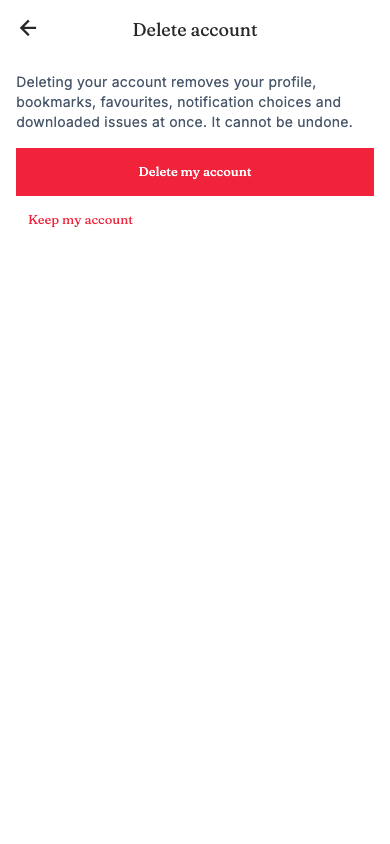
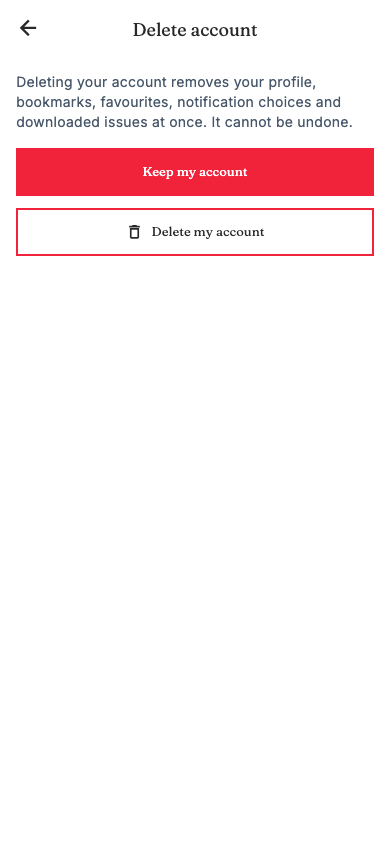
docs(design): make keeping the account the filled button on SCR-A-08 (MOD16-P1-T03)
After Yuvraj Gaykhe's review of #67: deleting is an outlined button in the
error colour with a delete icon, and the record says the images are 1x.

diff --git a/app/test/design/account_frames.dart b/app/test/design/account_frames.dart
@@ -262,6 +262,37 @@ class _Primary extends StatelessWidget {
   }
 }
 
+/// The style of an irreversible action: an outline in the error colour, a
+/// delete icon, and the label in the heading colour, which meets the
+/// contrast baseline where red text does not (DESIGN_TOKENS.md section 5).
+class _Destructive extends StatelessWidget {
+  const _Destructive(this.label, {this.busy = false});
+
+  final String label;
+  final bool busy;
+
+  @override
+  Widget build(BuildContext context) {
+    return OutlinedButton.icon(
+      onPressed: busy ? null : () {},
+      style: OutlinedButton.styleFrom(
+        foregroundColor: MfwColours.heading,
+        side: const BorderSide(color: MfwColours.error, width: 2),
+      ),
+      icon: busy
+          ? const SizedBox.square(
+              dimension: 20,
+              child: CircularProgressIndicator(
+                strokeWidth: 2,
+                semanticsLabel: 'Deleting',
+              ),
+            )
+          : const Icon(Icons.delete_outline),
+      label: Text(busy ? 'Deleting' : label),
+    );
+  }
+}
+
 class _Link extends StatelessWidget {
   const _Link(this.label);
 
@@ -642,11 +673,15 @@ class _DeleteAccount extends StatelessWidget {
           ),
           const _Field('Password', obscure: true),
         ],
-        _Primary(
+        // The safe choice is the filled button, and the irreversible one has
+        // its own style: an outline in the error colour with a delete icon
+        // (review of pull request #67).
+        const _Primary('Keep my account'),
+        const _Gap(MfwSpace.md),
+        _Destructive(
           reauth ? 'Confirm and delete' : 'Delete my account',
           busy: busy,
         ),
-        const _Link('Keep my account'),
       ],
     );
   }

diff --git a/app/test/design/account_frames_test.dart b/app/test/design/account_frames_test.dart
@@ -19,7 +19,8 @@ import 'account_frames.dart';
 const bool _drawImages = bool.fromEnvironment('MFW_DESIGN_FRAMES');
 
 Future<void> _pumpFrame(WidgetTester tester, DesignFrame frame) async {
-  // A 390 by 844 point phone at 2x.
+  // A 390 by 844 point phone. The images are written at 1x, 390 by 844
+  // pixels.
   tester.view.physicalSize = const Size(780, 1688);
   tester.view.devicePixelRatio = 2;
   addTearDown(tester.view.reset);

diff --git a/Documentation/design/ACCOUNT_SCREEN_DESIGNS.md b/Documentation/design/ACCOUNT_SCREEN_DESIGNS.md
@@ -17,7 +17,7 @@
 
 | Version | Date | Change |
 |---|---|---|
-| 0.1 | 9 November 2026 | First version: 23 frames of SCR-A-01 to SCR-A-08, SCR-A-20 and SCR-A-21 with their states, drawn on the app's theme and tokens, with the choices made and the open points each frame waits for. |
+| 0.1 | 9 November 2026 | First version: 23 frames of SCR-A-01 to SCR-A-08, SCR-A-20 and SCR-A-21 with their states, drawn on the app's theme and tokens, with the choices made and the open points each frame waits for. Revised on 9 November 2026 after the review of pull request #67: on SCR-A-08 the filled button keeps the account and deleting has its own outlined style, and section 2 says that the images are 1x. |
 
 ### 1.1 Related documents
 
@@ -31,7 +31,7 @@
 
 ## 2. How the Frames Are Made
 
-Each frame is a Flutter widget drawn with the app's own theme (`buildMfwTheme`) and tokens (`MfwColours`, `MfwType`, `MfwSpace`), on a 390 by 844 point phone at twice the resolution. The widgets are in `app/test/design/account_frames.dart`. They are designs, not app screens: they hold no logic, and nothing in `app/lib/` uses them. The real screens are built in MOD03-P2 and MOD04-P2.
+Each frame is a Flutter widget drawn with the app's own theme (`buildMfwTheme`) and tokens (`MfwColours`, `MfwType`, `MfwSpace`), on a 390 by 844 point phone. The images are 390 by 844 pixels (1x). The widgets are in `app/test/design/account_frames.dart`. They are designs, not app screens: they hold no logic, and nothing in `app/lib/` uses them. The real screens are built in MOD03-P2 and MOD04-P2.
 
 `app/test/design/account_frames_test.dart` checks every frame on each `flutter test`: tap targets of at least 48 by 48 on Android and 44 by 44 on iOS, and a label on every control (the baseline proposed for OQ-25, `CODING_STANDARDS.md` section 9). All 23 pass. To redraw the images in `design/account/`, run on a Mac, from `app/`:
 
@@ -52,7 +52,7 @@ Text is drawn a little differently on another machine, so the images are compare
 | SCR-A-05 Complete profile | [default](account/a05_complete_profile.png), [fields to check](account/a05_complete_profile_invalid.png) | The five fields of the working position (GS-Q40): full name, age as a whole number from 1 to 120 (OQ-02), gender with "Prefer not to say", occupation and domain of work. Each wrong field says what to fix | OQ-01 (the field list and allowed values), OQ-02, OQ-03 |
 | SCR-A-06 Profile | [default](account/a06_profile.png), [loading](account/a06_profile_loading.png), [could not load](account/a06_profile_error.png) | The email and the profile values, with an edit action (editing is an ASSUMPTION). Loading (FR-STATE-001) and an error with Retry | SN-01 (own screen or part of settings) |
 | SCR-A-07 Settings | [signed in](account/a07_settings.png), [visitor](account/a07_settings_visitor.png) | Notifications (SCR-A-21 inside), the account items (profile, sign out, delete account), and the policy, terms and licence links. A visitor sees notifications and a sign-in item instead of the account items (GS-Q46) | OQ-09 (what a visitor sees) |
-| SCR-A-08 Delete account | [confirm](account/a08_delete_confirm.png), [sign in again](account/a08_delete_reauth.png), [deleting](account/a08_deleting.png) | What is deleted, at once and for good (GS-Q50, FR-PRIV-003), a confirm action and a way out. When the last sign-in is not recent (`RECENT_SIGN_IN_REQUIRED`), the password is asked again (OP-12, #49); a Google reader would see a Google button there, not drawn | OQ-24 (records kept), OQ-56 (the recent sign-in window) |
+| SCR-A-08 Delete account | [confirm](account/a08_delete_confirm.png), [sign in again](account/a08_delete_reauth.png), [deleting](account/a08_deleting.png) | What is deleted, at once and for good (GS-Q50, FR-PRIV-003). Keeping the account is the filled button, and deleting has its own style: an outline in the error colour with a delete icon. When the last sign-in is not recent (`RECENT_SIGN_IN_REQUIRED`), the password is asked again (OP-12, #49); a Google reader would see a Google button there, not drawn | OQ-24 (records kept), OQ-56 (the recent sign-in window) |
 | SCR-A-20 Notification explanation | [default](account/a20_notification_explanation.png) | What MFW sends, before the phone's own permission prompt, with Continue and Not now (FR-NOTIF-001) | OQ-09, OQ-18 |
 | SCR-A-21 Notification categories | [default](account/a21_categories.png), [no network](account/a21_categories_error.png) | The three fixed categories of the working position (GS-Q47): new issues, expo specials, major news, each with a switch | OQ-18 (the categories), OQ-55 |
 
@@ -61,7 +61,7 @@ Text is drawn a little differently on another machine, so the images are compare
 1. **Messages.** A failure is a notice above the form: a red bar and an icon, with the message in the heading colour, so that colour is not the only signal and the text meets the contrast baseline (`DESIGN_TOKENS.md` section 3.2). The error frames use the `messageFor` wording of MOD02-P1-T01; a retryable failure adds Retry (CODING_STANDARDS section 6.1, rule 4).
 2. **Field errors** are under the field and say what to fix.
 3. **Busy states** keep the form and replace the button label with a progress indicator, so a second tap does nothing.
-4. **Links** are text buttons in the theme's red, and Google Sign-In is an outlined button below the main action, so the email path stays first while DEC-006 is PROVISIONAL.
+4. **An irreversible action** is never the filled button: on SCR-A-08 the filled button keeps the account, and deleting is an outlined button in the error colour with a delete icon and a dark label. **Links** are text buttons in the theme's red, and Google Sign-In is an outlined button below the main action, so the email path stays first while DEC-006 is PROVISIONAL.
 5. **Visitors** see notification choices in settings (GS-Q46), which stays open under OQ-09.
 
 ## 5. Accessibility

diff --git a/Documentation/CHANGELOG.md b/Documentation/CHANGELOG.md
@@ -33,7 +33,7 @@ AGREED (DEC-015, `DECISION_LOG.md` section 5.6).
 
 ### Documentation: the account, profile, settings and notification screen designs (MOD16-P1-T03), 2026-11-09, on topic branch `feat/sa-account-designs` on top of `feat/sa-backend-rules` (the head of pull request #66), under review in pull request #67
 
-23 frames of SCR-A-01 to SCR-A-08, SCR-A-20 and SCR-A-21, with their loading, error, no-network and visitor states, drawn as Flutter widgets on the app's own theme and tokens (#57) and rendered as images on a 390 by 844 point phone. The widgets are in `app/test/design/` and are not app code. A test checks every frame on each run against the tap-target and label guidelines (OQ-25 baseline): all 23 pass. The frames inherit the two contrast exceptions of `DESIGN_TOKENS.md` section 5 (the button label and red links, 4.19 to 1), which MFW decides at M2. The design record lists each frame, the choices made (PROPOSED) and the open points each waits for, chiefly OQ-01, OQ-02, OQ-09, OQ-18 and OQ-27. The wording is PLACEHOLDER and no MFW logo is shown. The task is done when the frames are in Yuvraj Gaykhe's prototype (MOD16-P1-T05) and reviewed. 411 tests pass, with 24 skipped (the golden of #57 and the 23 frame images, which are compared only with `MFW_DESIGN_FRAMES`).
+23 frames of SCR-A-01 to SCR-A-08, SCR-A-20 and SCR-A-21, with their loading, error, no-network and visitor states, drawn as Flutter widgets on the app's own theme and tokens (#57) and rendered as 390 by 844 pixel images (1x). Revised on 9 November 2026 after Yuvraj Gaykhe's approving review: on SCR-A-08 the filled button keeps the account and deleting is an outlined button in the error colour, and the record says 1x where it said twice the resolution. The widgets are in `app/test/design/` and are not app code. A test checks every frame on each run against the tap-target and label guidelines (OQ-25 baseline): all 23 pass. The frames inherit the two contrast exceptions of `DESIGN_TOKENS.md` section 5 (the button label and red links, 4.19 to 1), which MFW decides at M2. The design record lists each frame, the choices made (PROPOSED) and the open points each waits for, chiefly OQ-01, OQ-02, OQ-09, OQ-18 and OQ-27. The wording is PLACEHOLDER and no MFW logo is shown. The task is done when the frames are in Yuvraj Gaykhe's prototype (MOD16-P1-T05) and reviewed. 411 tests pass, with 24 skipped (the golden of #57 and the 23 frame images, which are compared only with `MFW_DESIGN_FRAMES`).
 
 | Date | Document | Change | Reason | Related IDs | Approval status | Affects scope |
 |---|---|---|---|---|---|---|
